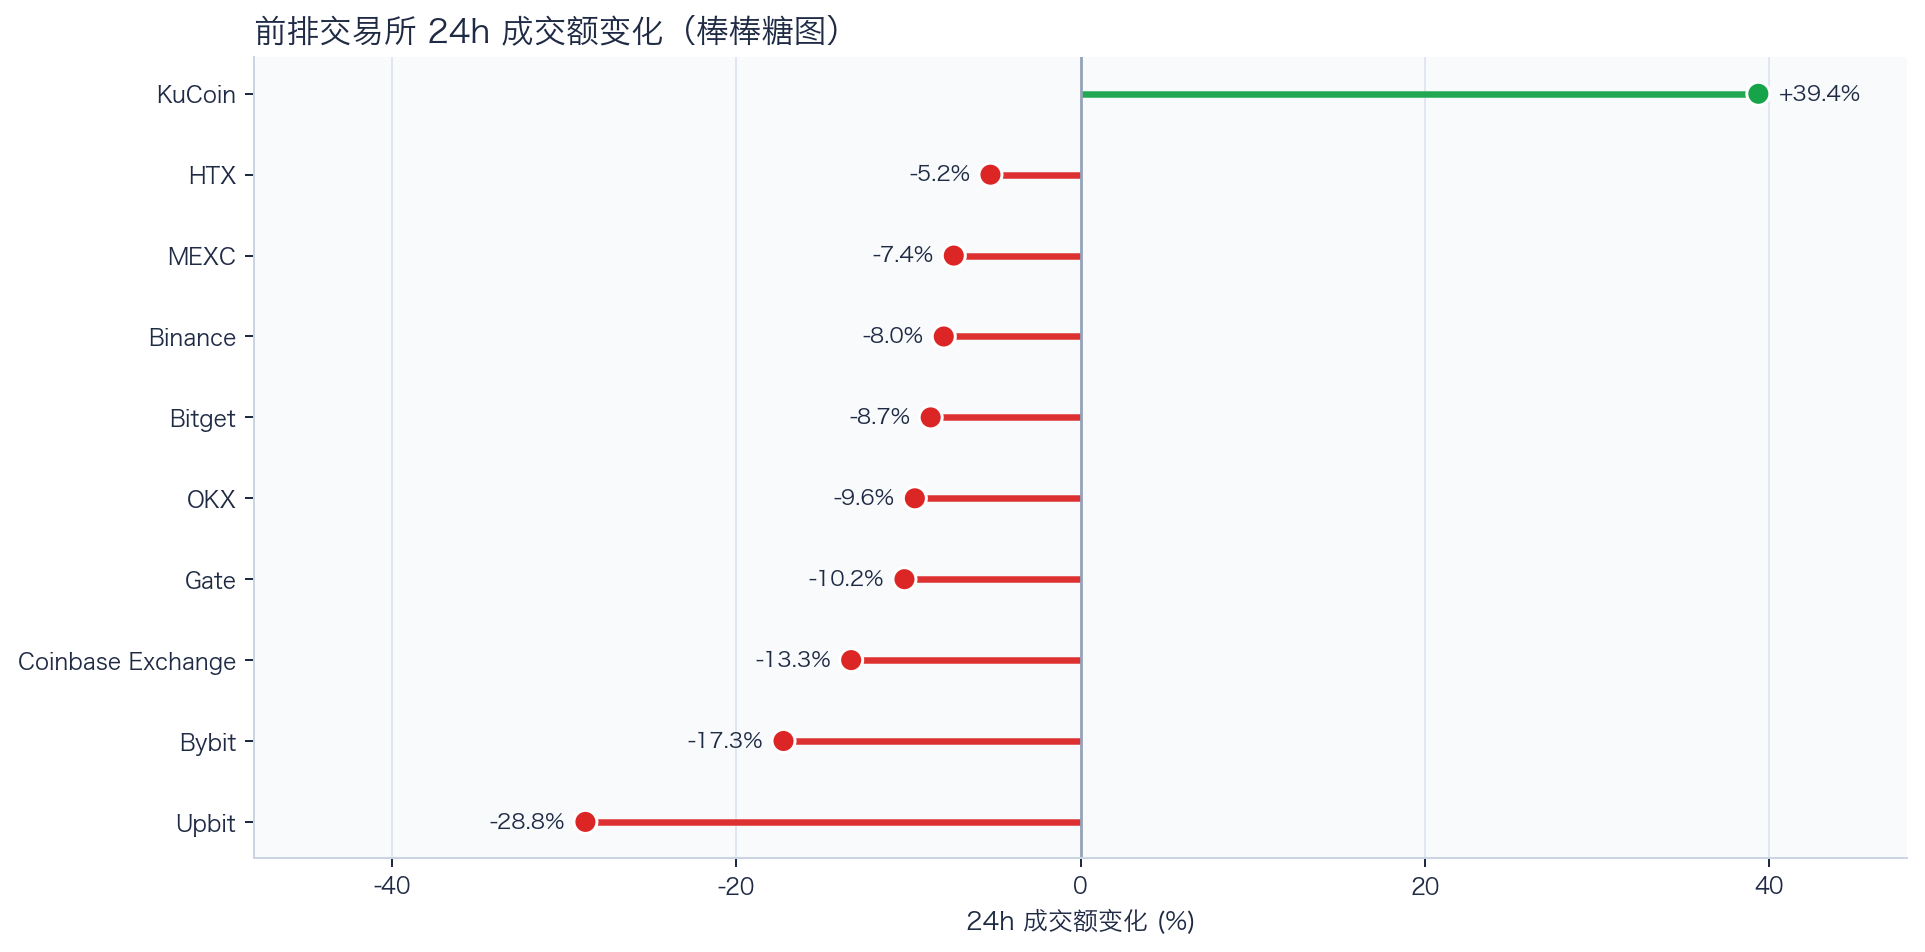
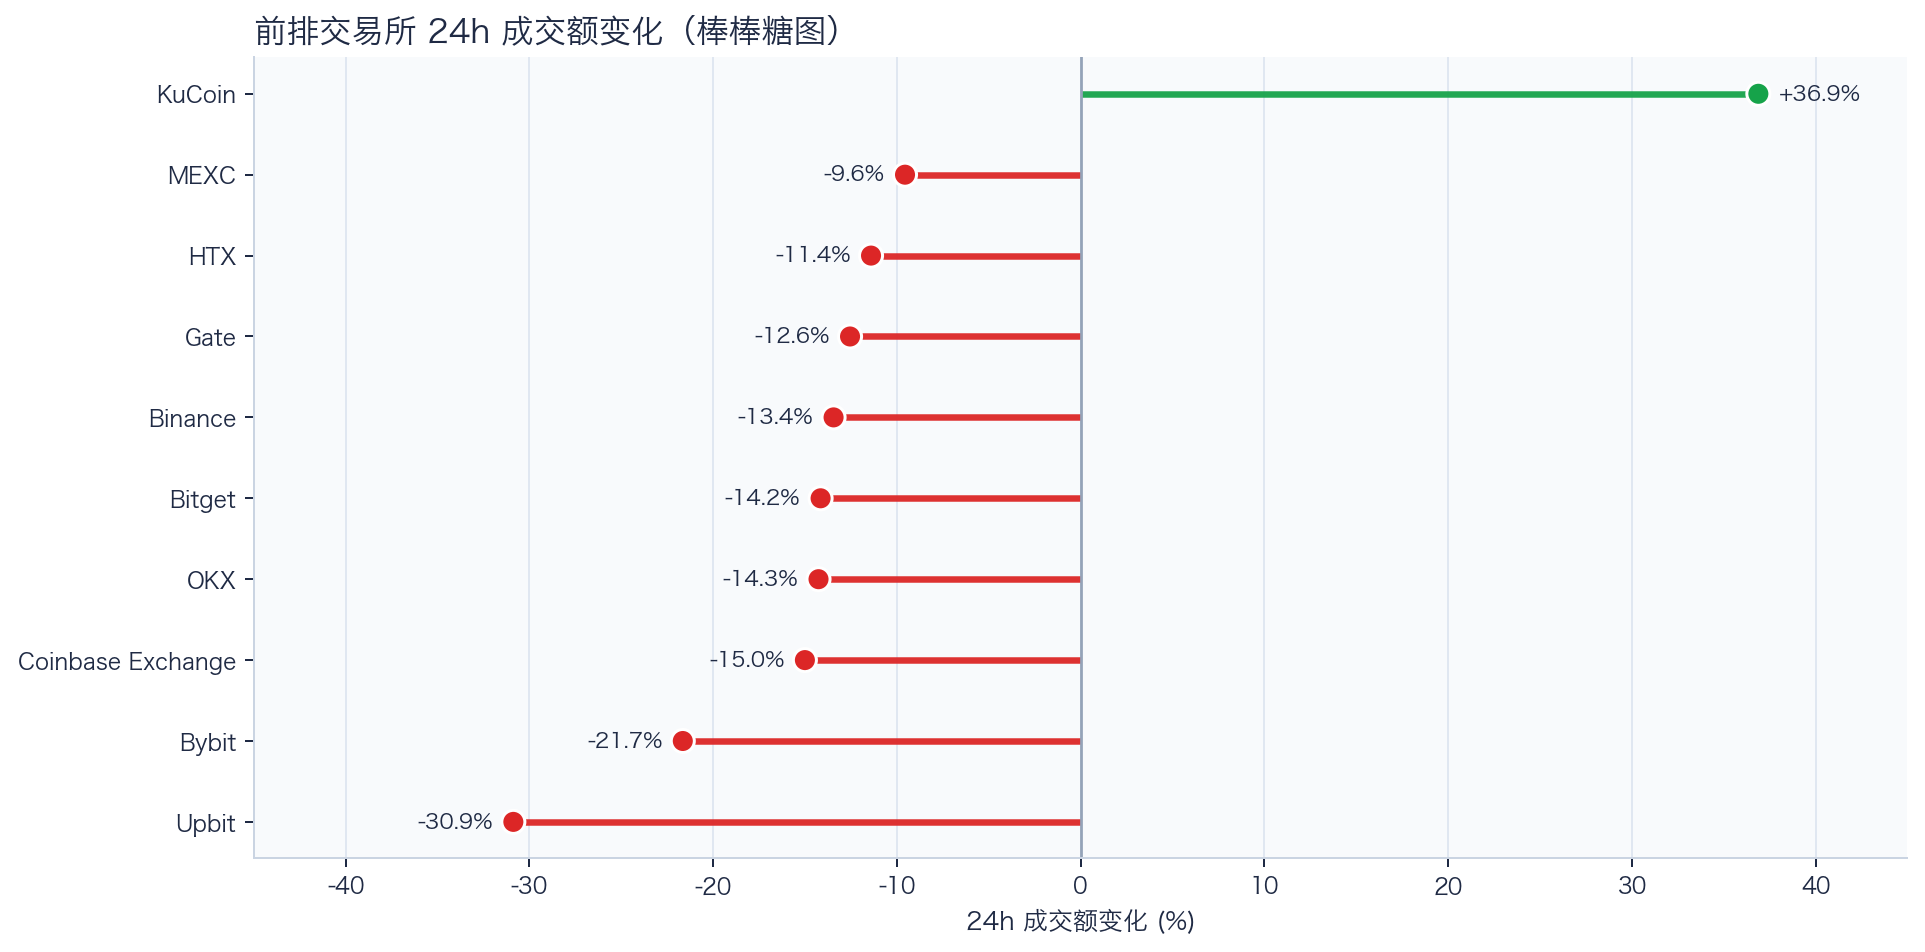
update daily report charts and remove source lines

diff --git a/reports/2026-03-01/secondary_daily_cn/daily_secondary_report.md b/reports/2026-03-01/secondary_daily_cn/daily_secondary_report.md
@@ -2,8 +2,8 @@
 
 ## 关键结论
 - 全市场市值 $2.30T（24h +1.41%），成交额 $102.41B（24h +5.23%）。
-- BTC 主导率 58.15%（+0.17pct），Top10 外占比 8.75%。
-- Top10 资产上涨 0 / 下跌 9，平均涨跌幅 -1.06%，首尾分化 2.74pct。
+- BTC 主导率 58.15%（+0.17pct），Top10 外占比 8.78%。
+- Top10 资产上涨 1 / 下跌 8，平均涨跌幅 -1.69%，首尾分化 3.66pct。
 - 衍生品：BTC/ETH 资金费率分别为 -0.26bps / -0.05bps，DVOL 收盘 55.07 / 72.60。
 
 ## 今日盘面判断
@@ -16,45 +16,37 @@
 ![全市场当日水平](charts/chart_market_snapshot_levels.png)
 截至 2026-03-01，全市场市值 $2.30T，24h 成交额 $102.41B，BTC 主导率 58.15%。
 价格与成交同步上行，属于健康修复结构；若次日成交不掉队，修复延续概率更高。在这种盘面下，成交能否继续跟上，是判断明天反弹延续还是回吐的第一道分水岭。
-数据来源：CMC `global-metrics/quotes/historical`
 
 ![全市场当日变化](charts/chart_market_daily_change.png)
 相对前日，市值 +1.41%、成交 +5.23%、BTC.D +0.17pct。
 把这组变化拆开看，比看单一涨跌更有用：价格、成交、主导率三者同向时，行情更有连续性；一旦出现背离，走势往往会变得更短促、更反复。
-数据来源：CMC `global-metrics/quotes/historical`
 
 ## 主导率与市场广度
 ![市场广度快照](charts/chart_market_breadth_snapshot.png)
-当前结构为 BTC 58.15% / Top2-10 33.10% / Top10 外 8.75%。长尾占比仍偏低，广度修复还未形成持续趋势。
+当前结构为 BTC 58.15% / Top2-10 33.07% / Top10 外 8.78%。长尾占比仍偏低，广度修复还未形成持续趋势。
 Top10 外占比处于低位，风险偏好仍主要停留在 BTC 与头部资产。换句话说，资金目前更愿意在高流动性的核心资产里做仓位调整，而不是大面积扩散到长尾资产。
-数据来源：CMC 全市场 + CoinGecko Top10 市值聚合
 
 ## 资产与交易所资金流
 ![Top10资产24h表现](charts/chart_top10_assets_24h.png)
-Top10 中领涨 FIGR_HELOC（+0.00%），尾部 XRP（-2.74%），均值 -1.06%。分化 2.74pct，结构性交易仍是主导。
+Top10 中领涨 USDC（+0.00%），尾部 ETH（-3.65%），均值 -1.69%。分化 3.66pct，结构性交易仍是主导。
 下跌家数占优，风险偏好修复仍较脆弱，短线追高性价比一般。对交易而言，这通常意味着“选币”比“全市场方向”更重要，错配带来的收益差会明显放大。
-数据来源：CoinGecko `coins/markets`（API Key Auth）
 
 ![前排交易所24h变化](charts/chart_exchange_24h_change.png)
-前排样本上涨 1 家、下跌 9 家，均值 -6.92%。KuCoin 最强（+39.38%），Upbit 最弱（-28.78%）。
-最强与最弱平台的 24h 变化差达到 68.16pct，说明流动性仍在选择性回流，头部平台的价格发现能力更强。当平台间流量分化明显时，报价连续性和滑点表现会同步分化，执行层面要更关注成交质量。
-数据来源：CMC `exchange/quotes/latest`
+前排样本上涨 1 家、下跌 9 家，均值 -10.60%。KuCoin 最强（+36.88%），Upbit 最弱（-30.87%）。
+最强与最弱平台的 24h 变化差达到 67.76pct，说明流动性仍在选择性回流，头部平台的价格发现能力更强。当平台间流量分化明显时，报价连续性和滑点表现会同步分化，执行层面要更关注成交质量。
 
 ![交易所现货衍生品结构](charts/chart_exchange_spot_deriv_structure.png)
-样本内衍生品成交占比 85.35%。若该占比继续走高且 funding 不同步回落，短线波动脉冲通常会增强。
+样本内衍生品成交占比 85.33%。若该占比继续走高且 funding 不同步回落，短线波动脉冲通常会增强。
 衍生品占比处于高位，行情更容易出现脉冲式放大，风控阈值建议偏保守。这也是为什么同样的消息面在当前阶段更容易被放大成大振幅走势。
-数据来源：CMC `exchange/quotes/latest`（spotVolumeUsd / derivativeVolumeUsd）
 
 ## 衍生品与情绪
 ![衍生品快照](charts/chart_derivatives_snapshot.png)
-资金费率（Funding）仍在中性附近，BTC/ETH 分别 -0.26bps / -0.05bps；未平仓合约（OI）为 $1.06B / $344.96M；隐含波动率指数（DVOL）位于 Neutral（中性波动定价） / Panic（高波动溢价）。
+资金费率（Funding）仍在中性附近，BTC/ETH 分别 -0.26bps / -0.05bps；未平仓合约（OI）为 $1.05B / $344.91M；隐含波动率指数（DVOL）位于 Neutral（中性波动定价） / Panic（高波动溢价）。
 资金费率接近中性，说明方向拥挤度有限；但 DVOL 仍偏高，市场对突发波动仍保留保险溢价。因此更合适的做法不是激进追单边，而是围绕波动管理仓位和节奏。
-数据来源：Deribit `public/ticker`、`public/get_volatility_index_data`
 
 ![情绪与波动当日快照](charts/chart_sentiment_snapshot.png)
 恐惧与贪婪指数（F&G）当日 14（较前日 +3）；配合 BTC/ETH DVOL 55.07/72.60，当前更像情绪修复中的高波动区。
 恐惧区内出现边际改善，说明市场开始试探修复，但尚不足以支持激进风险暴露。只有当情绪、广度和成交三者同时改善，市场才更可能从“反弹交易”切换到“趋势交易”。
-数据来源：Alternative.me `/fng/` + Deribit DVOL
 
 ## 未来24小时观察
 1. 若 Top10 外占比继续抬升且 BTC.D 回落，说明风险偏好开始从核心资产向外扩散。
